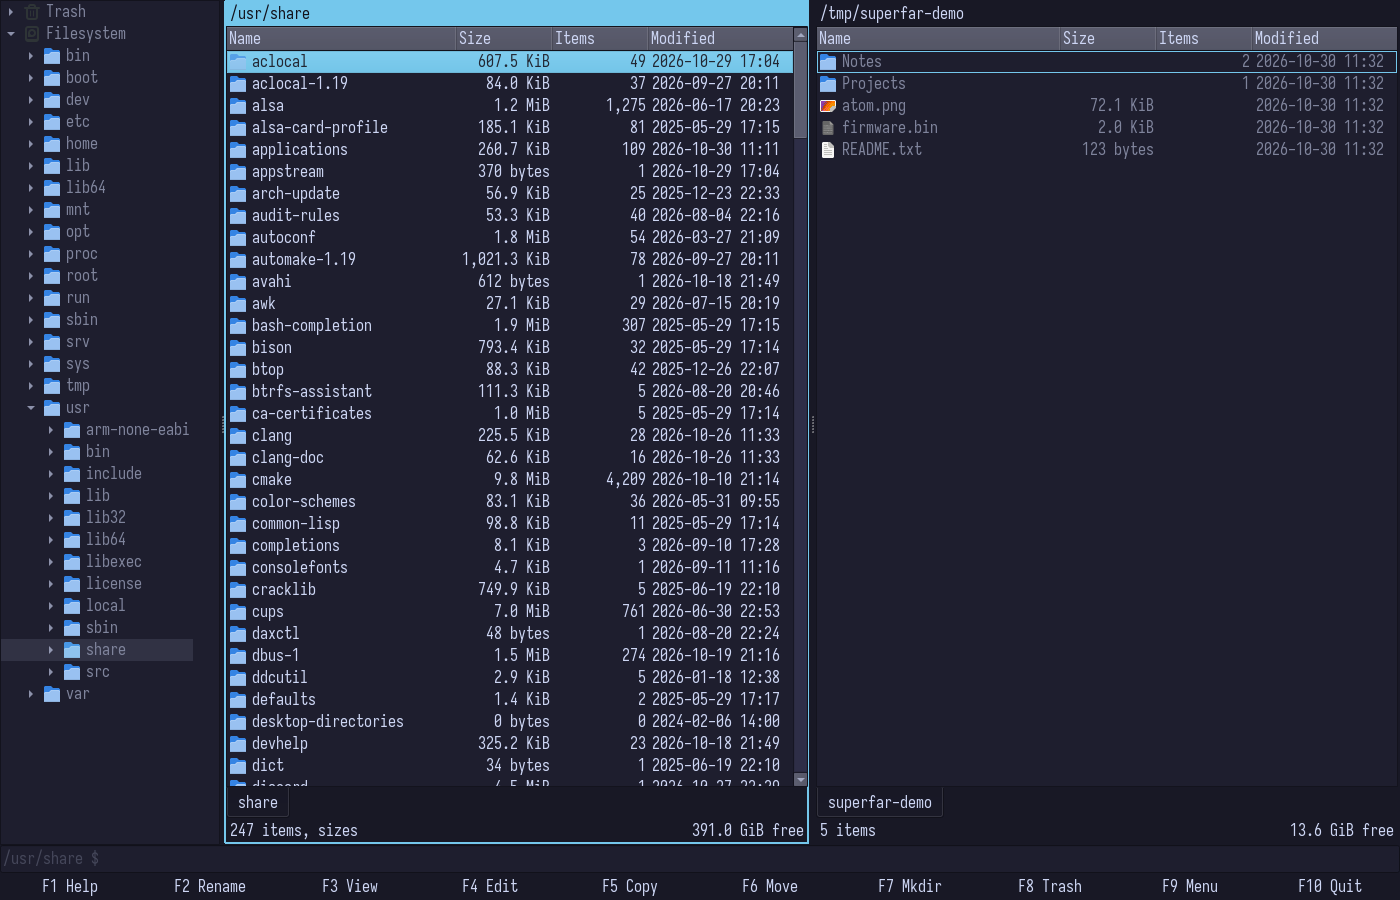
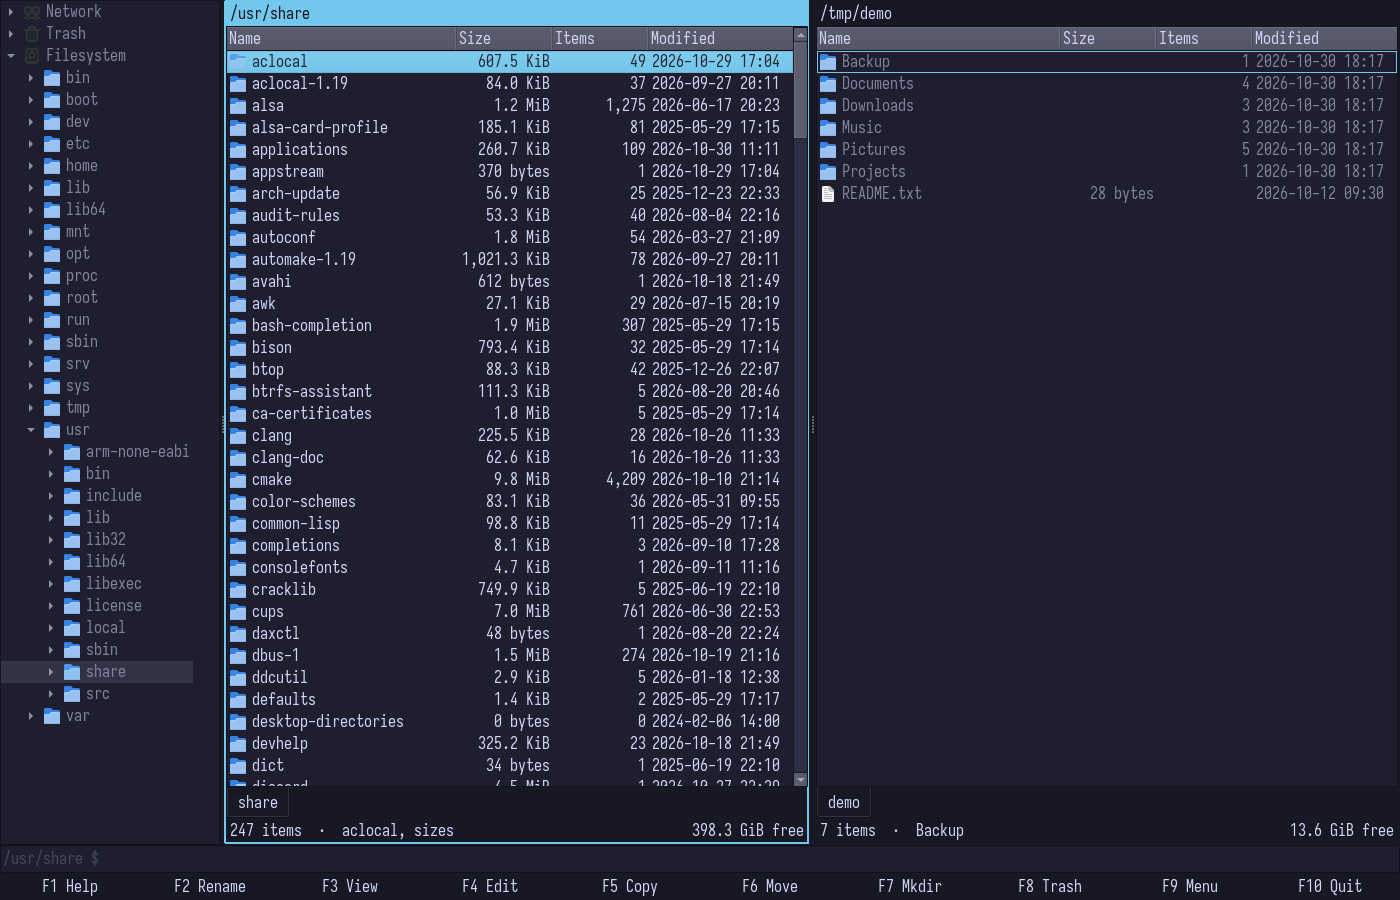
Missing optional dependencies say what is missing
Run with bsdtar, tumbler, gvfs and every terminal out of reach, the
window stayed on "Reading archive" for good (the spawn failed
synchronously and the status line was set after it), Ctrl+F4 did
nothing visible without a thumbnailer, and trash:// reported a bare
"Operation not supported". Now: the archive status names the libarchive
package, Ctrl+F4 names tumbler and stays off, listings of gvfs schemes
name gvfs, and the terminal case already said to set $TERMINAL.

README screenshots re-rendered from a generic demo tree inside a mount
namespace with a fresh /tmp (tools/screenshots.sh), so the tree shows no
local folders; the sample image is the project icon.

Claude-Session: https://claude.ai/code/session_01KxLwQuifZ4kmM58da464kf

diff --git a/src/app/pane/tab.cpp b/src/app/pane/tab.cpp
@@ -320,6 +320,10 @@ void Tab::setThumbnails(bool on)
 {
     if (on == model_->thumbnails())
         return;
+    if (on && model_->thumbnailer()->unavailable()) {
+        Q_EMIT message(tr("No thumbnailer on the session bus: install tumbler"));
+        return;
+    }
     cursorName_ = currentName();
     model_->setThumbnails(on);
     view_->setThumbnailRows(on);
@@ -453,6 +457,12 @@ void Tab::onFailed(quint64 generation, const QString& message, core::ListFailure
         return;
     if (why == core::ListFailure::NotDirectory && core::isArchiveName(location_.basename())) {
         enterArchive(location_);
+        return;
+    }
+    if (why == core::ListFailure::NotSupported && !location_.isNative()) {
+        // trash://, network://, smb:// and friends are gvfs backends.
+        Q_EMIT statusChanged(tr("%1 locations need gvfs, which is not installed")
+                                 .arg(location_.uri().section(QLatin1Char(':'), 0, 0)), QString());
         return;
     }
     Q_EMIT statusChanged(message, QString());

diff --git a/src/core/archive.cpp b/src/core/archive.cpp
@@ -98,6 +98,13 @@ QByteArray unescapeName(const QByteArray& text)
     return out;
 }
 
+QString bsdtarError(const GError* error)
+{
+    if (g_error_matches(error, G_SPAWN_ERROR, G_SPAWN_ERROR_NOENT))
+        return QStringLiteral("bsdtar is not installed (package libarchive); archives cannot be opened");
+    return errorMessage(error);
+}
+
 std::vector<ArchiveEntry> parseArchiveListing(const QByteArray& output, int currentYear)
 {
     std::vector<ArchiveEntry> out;
@@ -213,7 +220,7 @@ void ArchiveLister::start(const Location& archive, quint64 generation)
     GPtr<GSubprocess> proc(g_subprocess_launcher_spawnv(launcher.get(), argv, &error));
     if (!proc) {
         GErrorPtr err(error);
-        Q_EMIT failed(generation, errorMessage(err.get()));
+        Q_EMIT failed(generation, bsdtarError(err.get()));
         return;
     }
     cancellable_ = g_cancellable_new();

diff --git a/src/core/thumbnails.cpp b/src/core/thumbnails.cpp
@@ -39,8 +39,10 @@ struct Thumbnailer::Hook {
                 g_object_unref(proxy);
             return;
         }
-        if (!proxy)
+        if (!proxy) {
+            self->unavailable_ = true;
             return;
+        }
         self->proxy_ = proxy;
         g_signal_connect(proxy, "g-signal", G_CALLBACK(&Hook::onGSignal), self);
         g_dbus_proxy_call(proxy, "GetSupported", nullptr, G_DBUS_CALL_FLAGS_NONE, 5000, nullptr,
@@ -54,6 +56,8 @@ struct Thumbnailer::Hook {
         GError* error = nullptr;
         GVariant* reply = g_dbus_proxy_call_finish(G_DBUS_PROXY(source), result, &error);
         GErrorPtr err(error);
+        if (self && !reply)
+            self->unavailable_ = true;  // no thumbnailer on this bus
         if (!self || !reply) {
             if (reply)
                 g_variant_unref(reply);

diff --git a/src/core/thumbnails.h b/src/core/thumbnails.h
@@ -27,6 +27,8 @@ public:
 
     // Known only after the daemon answered; false until then.
     bool available() const { return proxy_ != nullptr && !supported_.isEmpty(); }
+    // True once the bus said there is no thumbnailer service.
+    bool unavailable() const { return unavailable_; }
     bool supports(const QString& mime) const;
 
     // The cached PNG for the uri, or empty when none exists yet.
@@ -48,6 +50,7 @@ private:
     void onSignal(const char* name, const QStringList& uris, quint32 handle);
 
     GDBusProxy* proxy_ = nullptr;
+    bool unavailable_ = false;
     QSet<QString> supported_;
     QTimer* timer_;
     struct Pending {

diff --git a/src/core/archive.h b/src/core/archive.h
@@ -12,6 +12,7 @@
 #include <vector>
 
 typedef struct _GCancellable GCancellable;
+typedef struct _GError GError;
 
 namespace core {
 
@@ -26,6 +27,10 @@ struct ArchiveEntry {
 // By extension: zip, tar and its compressions, 7z, rar, iso, cpio, ar,
 // deb, jar and friends.
 bool isArchiveName(const QByteArray& name);
+
+// The message for a failed bsdtar spawn: names the package when the
+// program is missing, which is the common case.
+QString bsdtarError(const GError* error);
 
 // Parses "bsdtar -tvf" output (C.UTF-8 locale). Lines that do not fit are
 // skipped. Exposed for tests.

diff --git a/src/core/jobs/extract.cpp b/src/core/jobs/extract.cpp
@@ -1,4 +1,5 @@
 #include "core/jobs/extract.h"
+#include "core/archive.h"
 
 #include "core/gobject.h"
 
@@ -49,7 +50,7 @@ void ExtractJob::run()
     GPtr<GSubprocess> proc(g_subprocess_launcher_spawnv(launcher.get(), argv.data(), &error));
     if (!proc) {
         GErrorPtr err(error);
-        logFail(archive_.displayPath(), errorMessage(err.get()));
+        logFail(archive_.displayPath(), bsdtarError(err.get()));
     } else {
         GCancellable* cancel = beginItem();
         GBytes* errOut = nullptr;

diff --git a/src/core/listing.cpp b/src/core/listing.cpp
@@ -73,6 +73,8 @@ struct Listing::Job {
                 why = ListFailure::NotMounted;
             else if (g_error_matches(error.get(), G_IO_ERROR, G_IO_ERROR_NOT_DIRECTORY))
                 why = ListFailure::NotDirectory;
+            else if (g_error_matches(error.get(), G_IO_ERROR, G_IO_ERROR_NOT_SUPPORTED))
+                why = ListFailure::NotSupported;
             Q_EMIT owner->failed(generation, errorMessage(error.get()), why);
         }
         detach();

diff --git a/src/app/pane/tab_archive.cpp b/src/app/pane/tab_archive.cpp
@@ -13,8 +13,8 @@ void Tab::enterArchive(const core::Location& file)
     archive_ = file;
     archiveDir_.clear();
     archiveEntries_.clear();
-    lister_->start(file, generation_);
     Q_EMIT statusChanged(tr("Reading archive"), QString());
+    lister_->start(file, generation_);  // may fail synchronously, and that message must win
 }
 
 void Tab::onArchiveListed(quint64 generation, std::vector<core::ArchiveEntry> entries)

diff --git a/src/app/pane/listmodel.h b/src/app/pane/listmodel.h
@@ -54,6 +54,7 @@ public:
     // Thumbnails from tumbler for rows whose type it supports; the view
     // grows its rows to show them.
     void setThumbnails(bool on);
+    core::Thumbnailer* thumbnailer() const { return thumbs_; }
     bool thumbnails() const { return thumbnails_; }
     void requestSize(int row);
     // Stops walks and counts in flight; rows ask again when painted.

diff --git a/src/core/listing.h b/src/core/listing.h
@@ -12,7 +12,7 @@
 
 namespace core {
 
-enum class ListFailure { Other, NotMounted, NotDirectory };
+enum class ListFailure { Other, NotMounted, NotDirectory, NotSupported };
 
 class Listing : public QObject {
     Q_OBJECT

diff --git a/README.md b/README.md
@@ -113,8 +113,10 @@ set, Space appends to it.
 
 Dependencies: Qt 6 (Core, Gui, Widgets, DBus), GLib and GIO 2.74 or
 newer, libglycin 2, CMake 3.28, Ninja, a C++23 compiler. At run time,
-bsdtar (libarchive) for archives and tumbler for thumbnails, both
-optional.
+optional: bsdtar (libarchive) for archives, tumbler for thumbnails,
+gvfs for the trash, mounts and network shares, xdg-terminal-exec or
+$TERMINAL for F4 and the command line. Without one of them the window
+says so when you reach the feature; nothing else changes.
 
 ```sh
 cmake -S . -B build -G Ninja

diff --git a/CLAUDE.md b/CLAUDE.md
@@ -317,7 +317,8 @@ fuzz: hostile names, loops, an unreadable folder, a sparse file past
 bugprone, cert, performance and clang-analyzer checks over
 compile_commands.json, render once with a light theme and once with
 plain Fusion, and soak tabs open and close while memory is sampled:
-it must plateau, not climb.
+it must plateau, not climb. `unshare -Urm tools/screenshots.sh`
+re-renders the README screenshots from a generic demo tree.
 
 ## Non-goals
 
